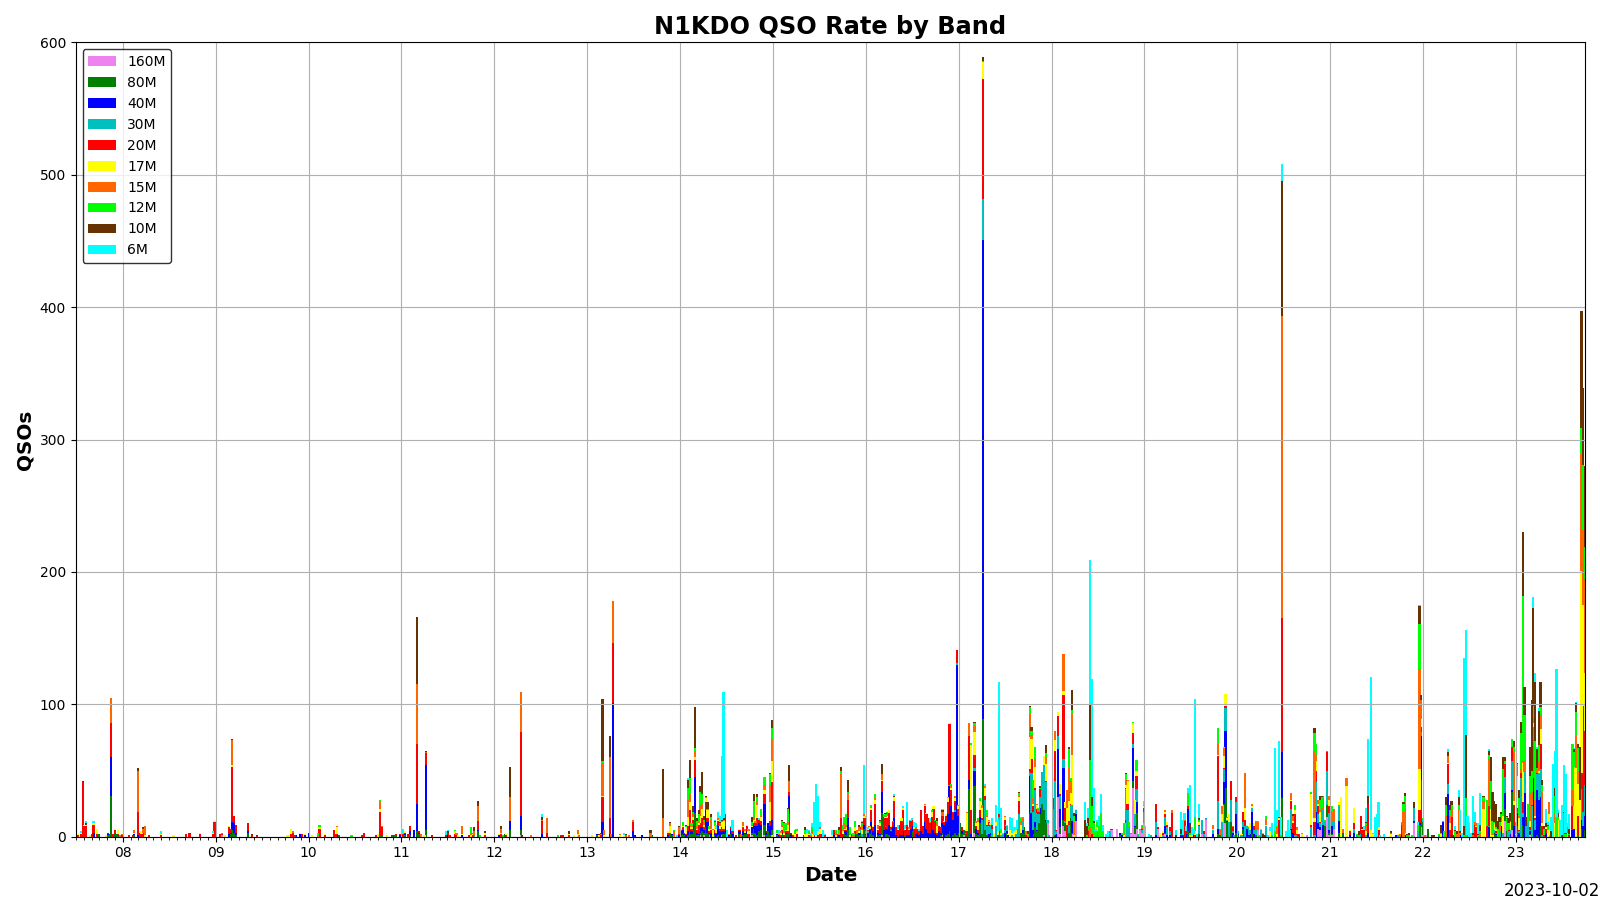
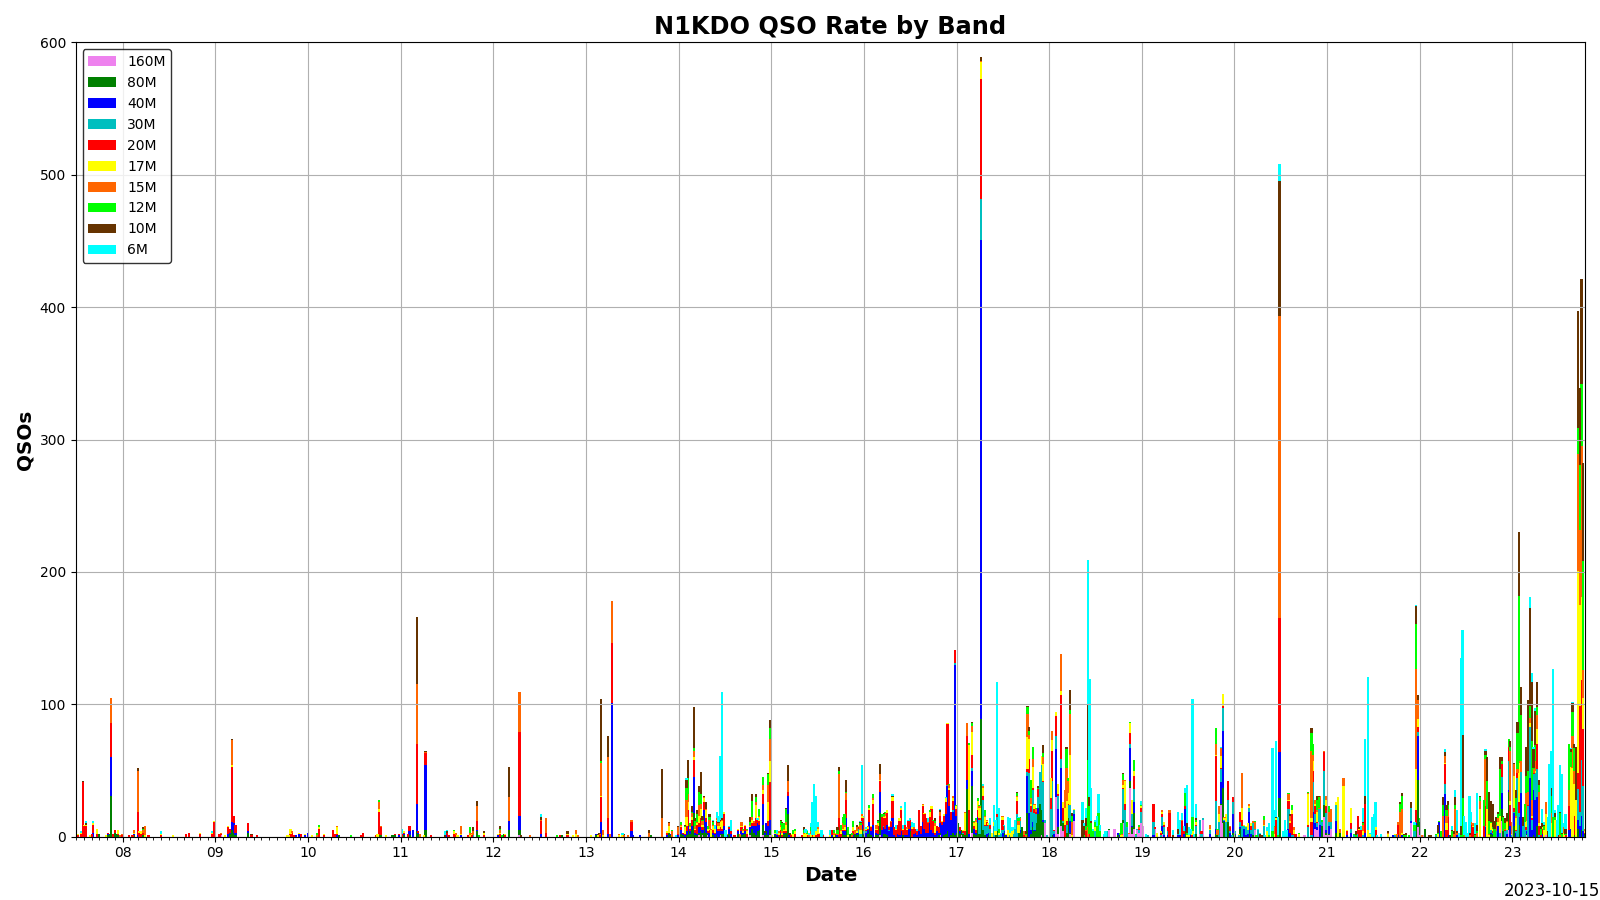
prelimionary dx marathon support

Changed region(s): [[0.2812, 0.0622, 1.0, 0.9644], [0.9688, 0.9644, 1.0, 0.9956]]

diff --git a/adif_log_analyzer.py b/adif_log_analyzer.py
@@ -43,7 +43,7 @@ import qso_charts
 __author__ = 'Jeffrey B. Otterson, N1KDO'
 __copyright__ = 'Copyright 2017 - 2023 Jeffrey B. Otterson'
 __license__ = 'Simplified BSD'
-__version__ = '0.10.0'
+__version__ = '0.11.0'
 
 FFMA_GRIDS = ['CM79', 'CM86', 'CM87', 'CM88', 'CM89', 'CM93', 'CM94', 'CM95', 'CM96', 'CM97', 'CM98', 'CM99',
               'CN70', 'CN71', 'CN72', 'CN73', 'CN74', 'CN75', 'CN76', 'CN77', 'CN78', 'CN80', 'CN81', 'CN82',
@@ -598,6 +598,18 @@ def main():
         # end_date   = datetime.datetime.strptime('20181231', '%Y%m%d').date()
         draw_charts(qso_list, callsign, start_date=start_date, end_date=end_date)
 
+        marathon_charts = True
+        if marathon_charts:
+            # now produce marathon output
+            marathon_qso_list = []
+            callsign = callsign + '_2023'
+            start_date = datetime.datetime.strptime('20230101', '%Y%m%d').date()
+            end_date = datetime.datetime.strptime('20240101', '%Y%m%d').date()
+            for qso in qso_list:
+                qso_date = datetime.datetime.strptime(qso['qso_date'], '%Y%m%d').date()
+                if start_date <= qso_date < end_date:
+                    marathon_qso_list.append(qso)
+            draw_charts(marathon_qso_list, callsign, start_date=start_date, end_date=end_date)
     logging.info('done.')
 
 

diff --git a/qso_charts.py b/qso_charts.py
@@ -382,7 +382,7 @@ def plot_qsos_rate(bin_data, title, filename=None, start_date=None, end_date=Non
     data = [[], [], [], []]
     maxy = 0
     for bin_dict in bin_data.data:
-        qdate = bin_dict['datetime']
+        qdate = bin_dict['datetime'].date()
         if (start_date is None or qdate >= start_date) and (end_date is None or qdate <= end_date):
             # compute stacked bar sizes
             new_dxcc = bin_dict['new_dxcc']
@@ -486,7 +486,7 @@ def plot_qsos_band_rate(bin_data, title, filename=None, start_date=None, end_dat
     dates = []
 
     for bin_dict in bin_data.data:
-        qdate = bin_dict['datetime']
+        qdate = bin_dict['datetime'].date()
         if (start_date is None or qdate >= start_date) and (end_date is None or qdate <= end_date):
             dates.append(qdate)
             sum = 0
@@ -577,7 +577,7 @@ def plot_qsos_mode_rate(bin_data, title, filename=None, start_date=None, end_dat
     dates = []
 
     for bin_dict in bin_data.data:
-        qdate = bin_dict['datetime']
+        qdate = bin_dict['datetime'].date()
         if (start_date is None or qdate >= start_date) and (end_date is None or qdate <= end_date):
             dates.append(qdate)
             sum = 0
